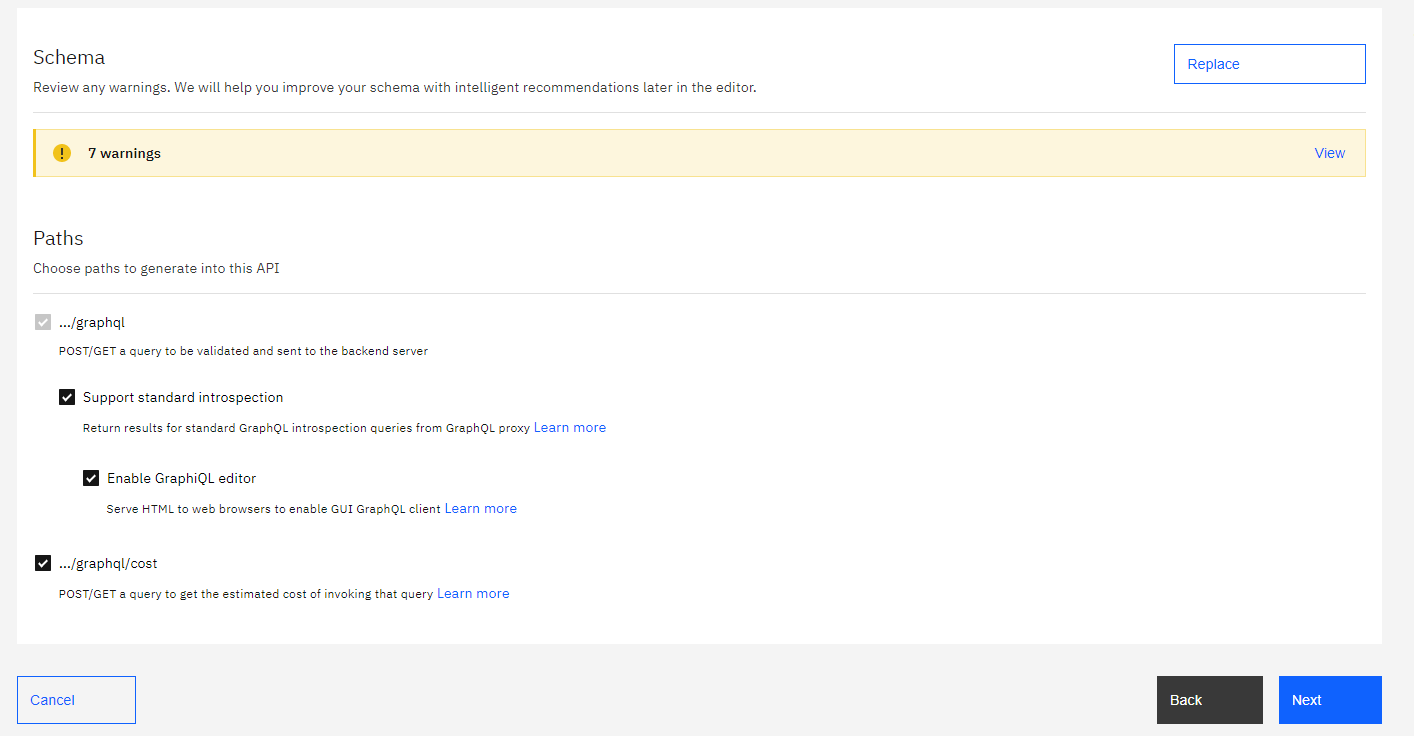
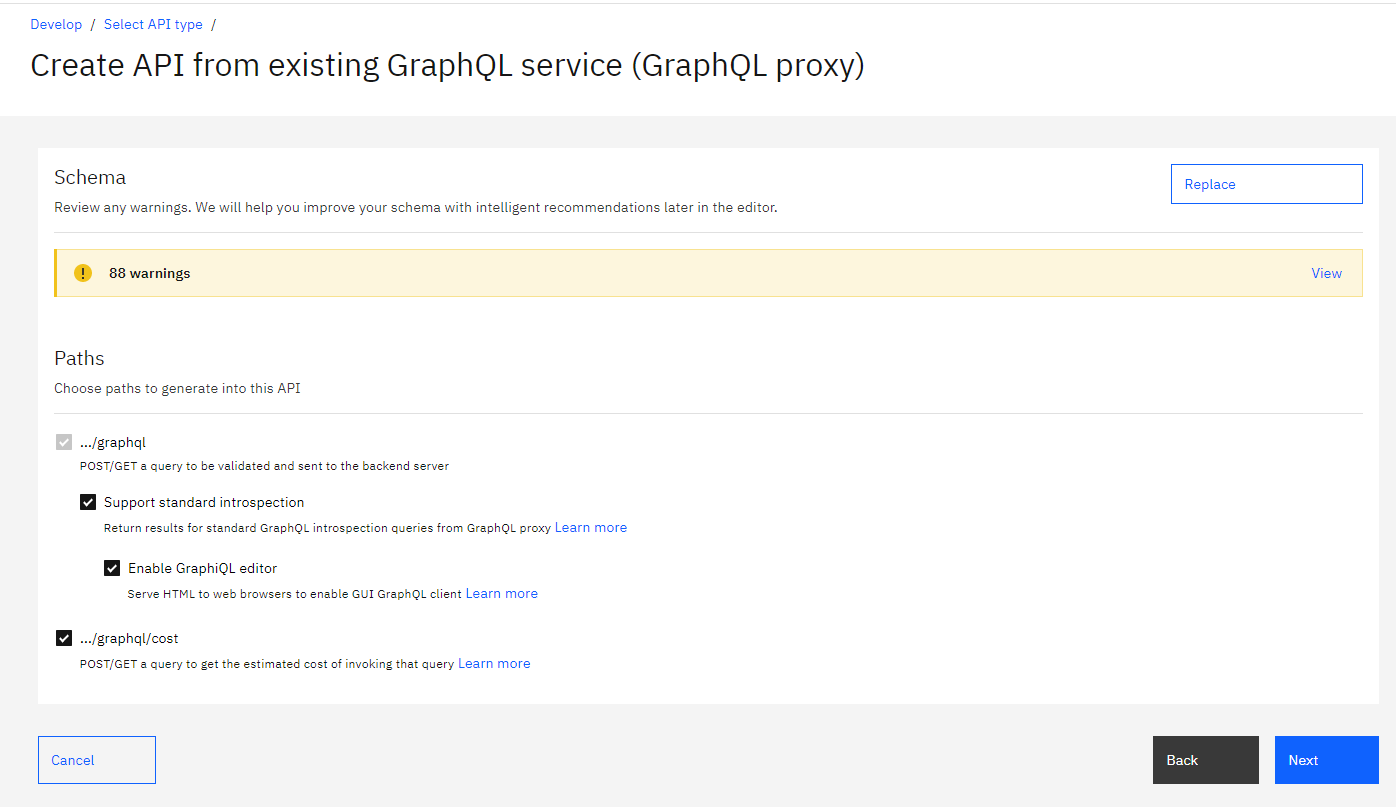
updated lab 8 for swapi

diff --git a/instructions/Lab8/index.md b/instructions/Lab8/index.md
@@ -77,19 +77,20 @@ Prerequisites: None
 
     ![](images/tutorial_html_797b2f887d77017c.png)
 
-3.  Enter the following values and click Next. You can use default
+3.  We will use SWAPI (The Star Wars API).
+	Enter the following values and click Next. You can use default
     values for the rest.
 
-    Title: countries
+    Title: swapi
 
-    GraphQL server URL: https://countries.trevorblades.com/graphql
+    GraphQL server URL: https://swapi-graphql.netlify.app/.netlify/functions/index
 
     ![](images/tutorial_html_f83e60ae96763438.png)
 
     ![](images/tutorial_html_90e0cbad29eca5a.png)
 
-4.  The schema validator reports warning and errors if found. There are 7
-    warnings in the countries schema imported from the server. You can
+4.  The schema validator reports warning and errors if found. There are 88
+    warnings in the swapi schema imported from the server. You can
     review the schema warning details and also select the end points
     interested for this proxy. Select all the available end points.
 
@@ -147,7 +148,7 @@ Prerequisites: None
 
     ![](images/tutorial_html_a2cd4daada4f2ca5.png)
 
-13. Countries GraphQL backend API doesn't support compression, hence we need to 
+13. Swapi GraphQL backend API doesn't support compression, hence we need to 
     disable the compression. Click the Source button next to Pencil icon at the top 
 	and search for **compression** and set the value to false, as shown below.
 	
@@ -165,7 +166,7 @@ Prerequisites: None
 16. To test the API select the end point for POST method. The URL should look like this (your
     value may be different):
 
-    <https://apic-gw-gateway-apic.apps.ocp-060001q8qm-ada2.cloud.techzone.ibm.com/joy-vad/sandbox/countries/graphql>
+    <https://apic-gw-gateway-apic.apps.ocp-060001q8qm-ada2.cloud.techzone.ibm.com/joy-vad/sandbox/swapi/graphql>
       
 
 17. API Connect Test feature also includes GraphQL Editor called **GraphiQL**. Enter the
@@ -173,12 +174,33 @@ Prerequisites: None
     to view formatting string.
 
 ```
-{
-  continents {
-    name
-    code
-    
-  }
+query Query {
+	allFilms(last: 10) {
+		edges{node{title}}
+		films {
+			title
+			episodeID
+			vehicleConnection(last: 10) {
+				vehicles {
+					name
+					model
+				}
+			}
+			speciesConnection(last: 1000) {
+				species {
+					name
+					designation
+					classification
+					personConnection(last: 10) {
+						people {
+							name
+							gender
+						}
+					}
+				}
+			}
+		}
+	}
 }
 ```
 
@@ -203,21 +225,28 @@ Prerequisites: None
     ![](images/tutorial_html_1d05935575c71f8e.png)
 
 21. You can request additional queries, refer to the schema editor
-    for details or go to https://github.com/trevorblades/countries/ for example requests).
+    for details or go to https://github.com/graphql/swapi-graphql/tree/master/doc/example_queries for example requests).
     
 ```
-{
-  country(code: "ID") {
-    name
-    native
-    capital
-    emoji
-    currency
-    languages {
-      code
-      name
-    }
-  }
+query Query {
+	allVehicles(last: 10) {
+		edges{node{name}}
+		vehicles {
+			name
+			manufacturers
+      model
+      vehicleClass
+			
+			pilotConnection(last: 10) {
+				pilots {
+					name
+					birthYear
+					eyeColor
+					gender
+				}
+			}
+		}
+	}
 }
 ```
 
@@ -232,12 +261,12 @@ Prerequisites: None
 
     ![](images/tutorial_html_4f43bda35452bd65.png)
 
-2.  Name the product as Countries Product and click Next
+2.  Name the product as Swapi Product and click Next
 
     ![](images/tutorial_html_d0c3992a4bd7bc24.png)
 
-3.  Add Countries API to the product by selecting countries. Click Next to
-    continue to create the countries-product.
+3.  Add swapi API to the product by selecting swapi. Click Next to
+    continue to create the swapi-product.
 
     ![](images/tutorial_html_4ae09f5fddd82bab.png)
 	
@@ -247,7 +276,7 @@ Prerequisites: None
 
     ![](images/tutorial_html_1adf1922464ea393.png)
 
-6.  Click Edit Product to Edit the product countries-product to review the details. 
+6.  Click Edit Product to Edit the product swapi-product to review the details. 
     
 	![](images/edit-product.png)
 
@@ -285,11 +314,11 @@ Prerequisites: None
     ![](images/tutorial_html_c34973eb377015ce.png)
 
 2.  Developer Portal displays all the products that are currently
-    published. Locate countries-product and select the product.
+    published. Locate swapi-product and select the product.
 
     ![](images/tutorial_html_2635d049f12d59c6.png)
 
-3.  The selected product lists one API (countries api) and one Plan
+3.  The selected product lists one API (swapi api) and one Plan
     (Default Plan). Click Select to subscribe to the plan.
 
     ![](images/tutorial_html_bd0ea34d4f40d756.png)
@@ -300,13 +329,13 @@ Prerequisites: None
 
     ![](images/tutorial_html_2fd3cf48168675e5.png)
 	
-5.  Subscribe to Countries product and Click Next.
+5.  Subscribe to swapi product and Click Next.
 
 6.  Review summary and Click Done.
 
     ![](images/dev_portal_subscription.png)			
 
-7.  Select countries API to review and test the API. Click countries to
+7.  Select swapi API to review and test the API. Click swapi to
     continue
 
     ![](images/tutorial_html_8a5975dd9780a924.png)
